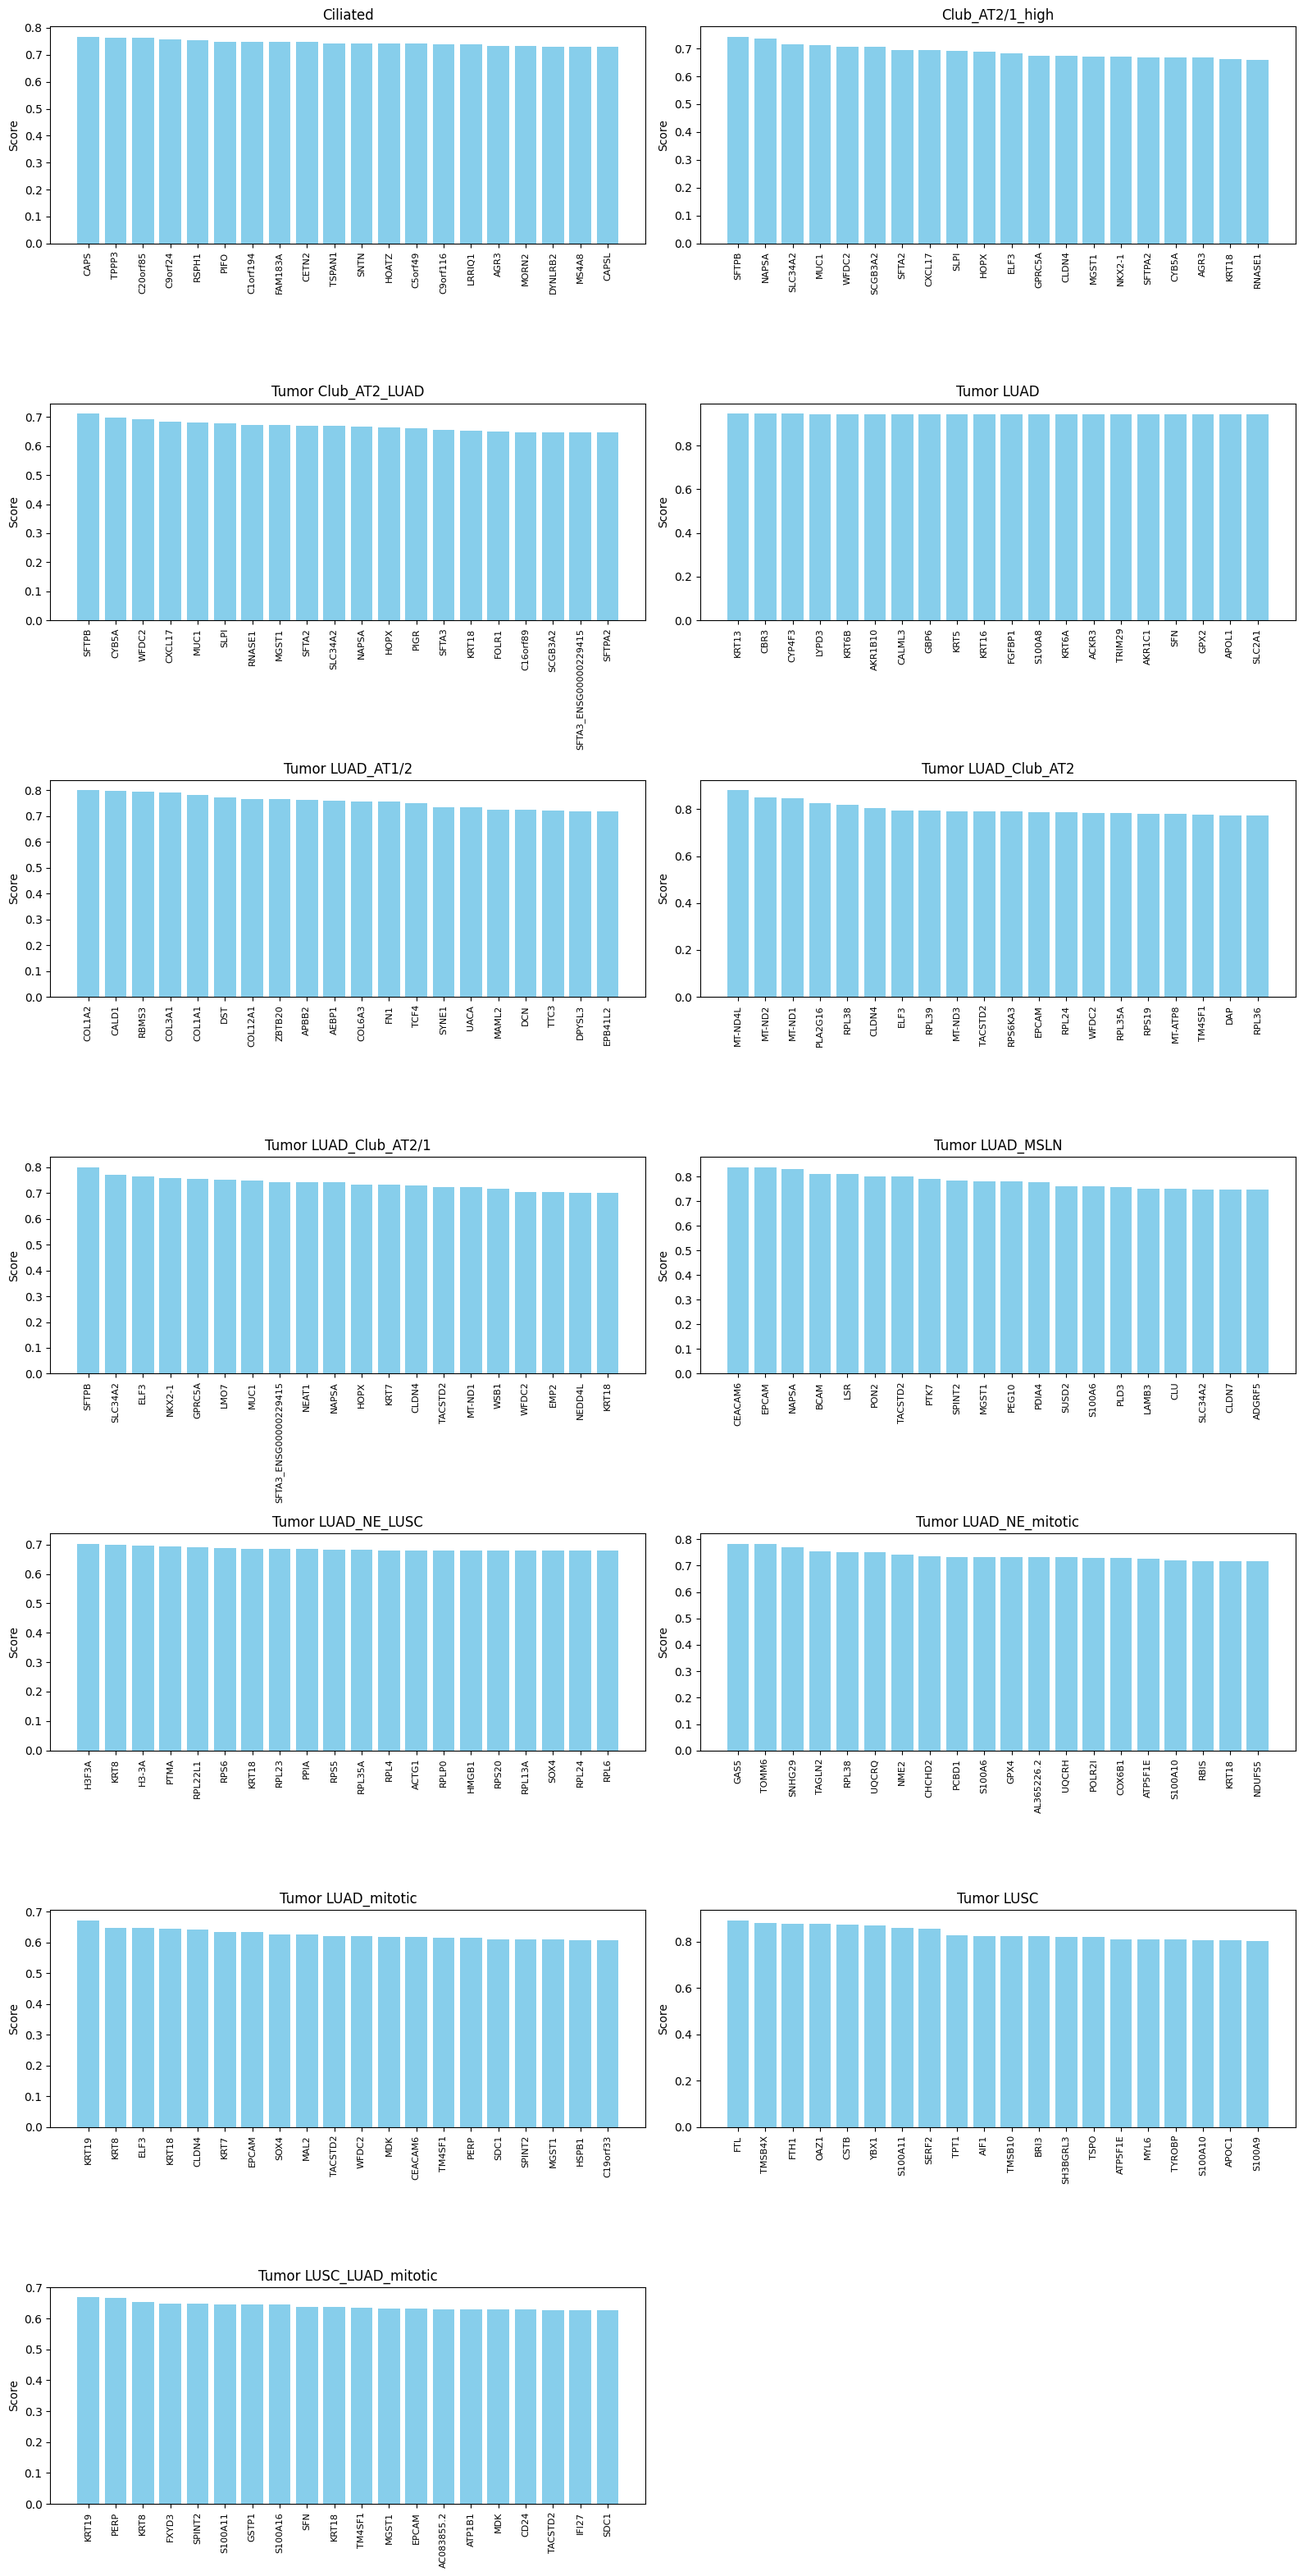
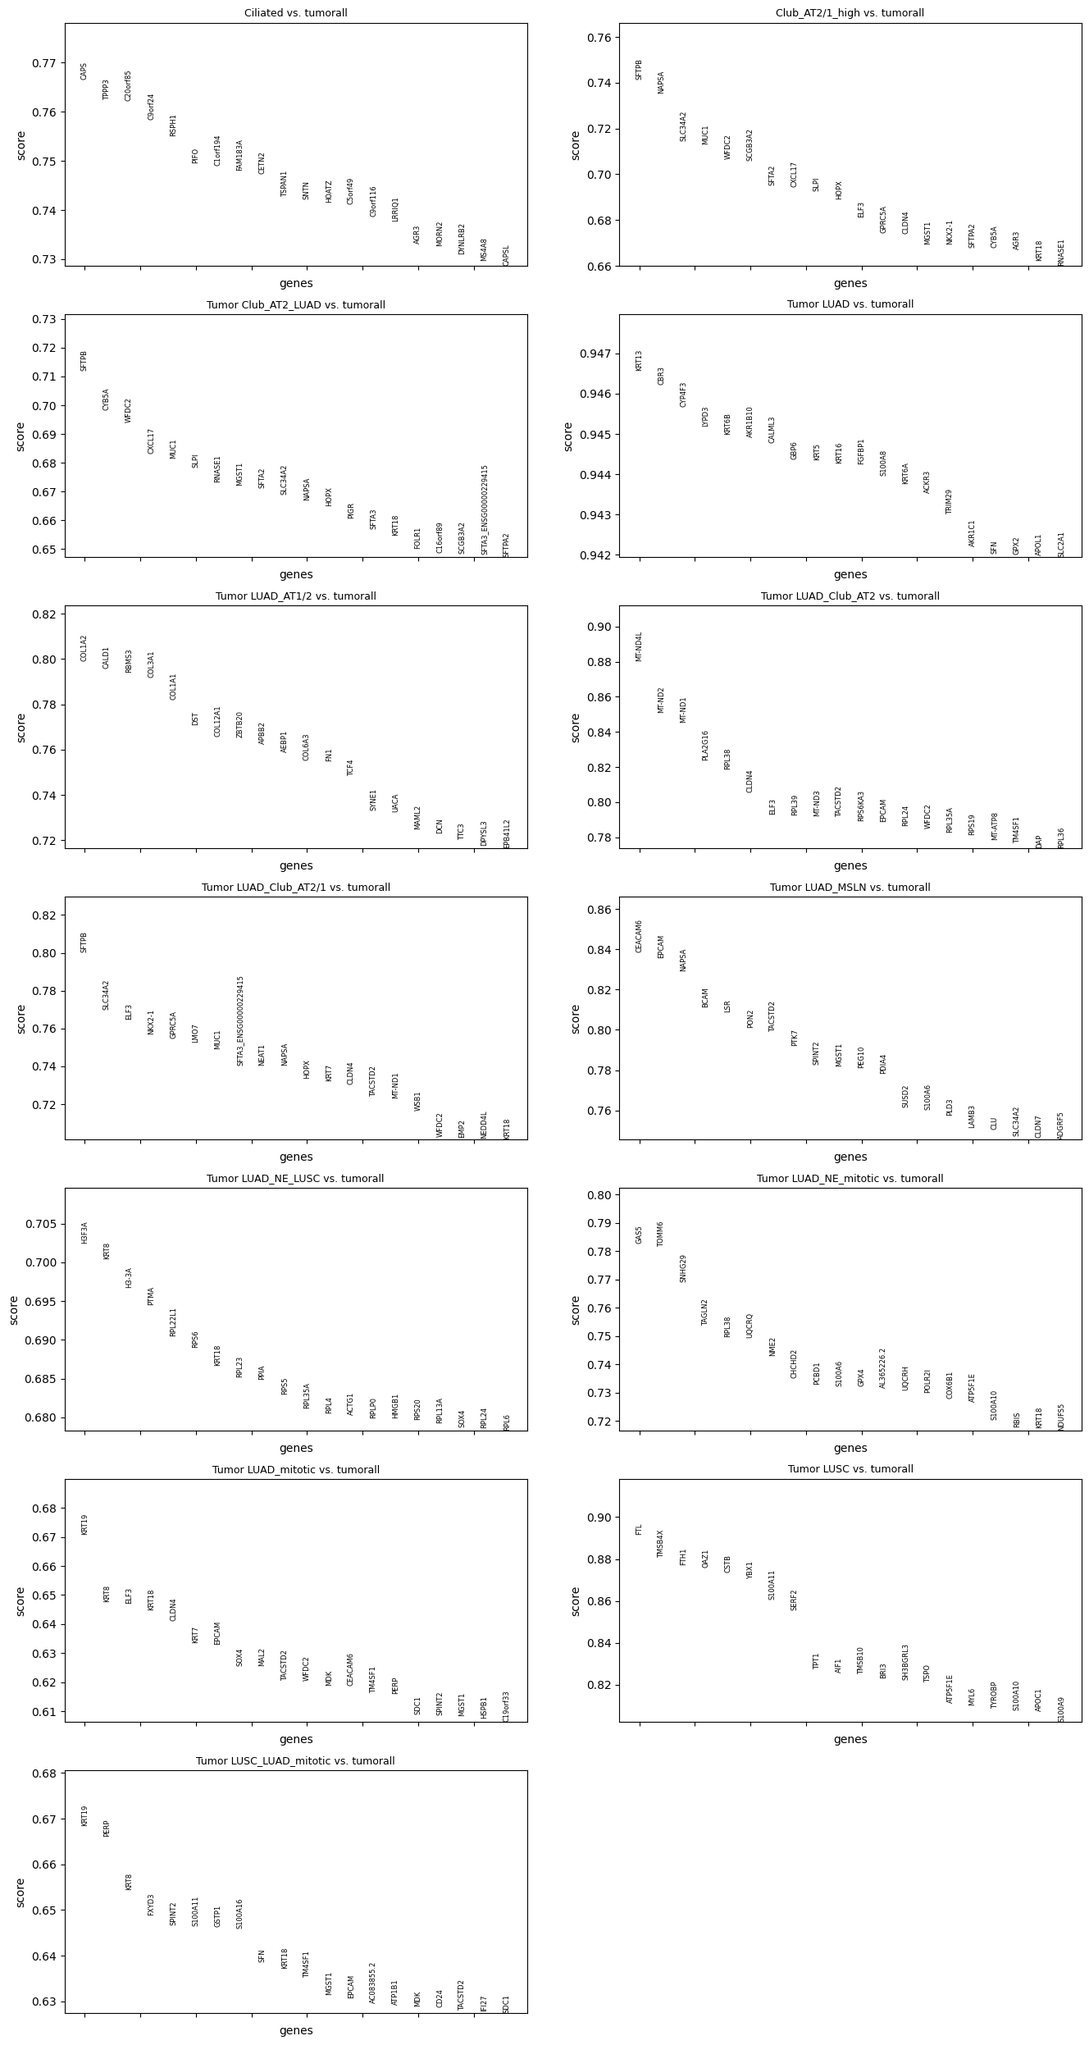
fix marker plots

diff --git a/nb_DE_wilcox/aggregate_markers.py b/nb_DE_wilcox/aggregate_markers.py
@@ -1,7 +1,8 @@
 import os
-from typing import List
+from typing import List, Optional
 import logging
 
+from matplotlib.axes import Axes
 import numpy as np
 import pandas as pd
 
@@ -12,6 +13,107 @@ import gseapy
 
 logging.basicConfig(level=logging.INFO)
 
+
+def rank_genes_group(
+    de_regions: dict,
+    group_name: str,
+    n_genes: int = 20,
+    gene_mapping: Optional[dict] = None,
+    gene_names: Optional[List[str]] = None,
+    fontsize: int = 8,
+    titlesize: int = 10,
+    show: Optional[bool] = None,
+    ax: Optional[Axes] = None,
+    **kwds,
+) -> Axes:
+    """
+    Visualizes the ranking of genes for a specified group from an AnnData object.
+
+    Parameters:
+        de_regions: dict
+            The dictionary containing the dataset and analysis results.
+        group_name: str
+            The name of the group for which to rank genes.
+        n_genes: int, optional
+            The number of top genes to display (default is 20).
+        gene_mapping: Optional[dict], optional
+            A dictionary mapping gene names to other ones
+        gene_names: Optional[List[str]], optional
+            Explicit list of gene names to use for plotting.
+        fontsize: int, optional
+            Font size for gene names (default is 8).
+        titlesize: int, optional
+            Font size for the title (default is 10).
+        show: Optional[bool], optional
+            If True, show the plot immediately.
+        ax: Optional[Axes], optional
+            A matplotlib axes object to plot on. If None, a new figure is created.
+        **kwds:
+            Additional keyword arguments to pass to plotting functions.
+
+    Returns:
+        Axes:
+            The matplotlib axes with the plot.
+
+    Raises:
+        ValueError:
+            If n_genes is less than 1.
+    """
+    if n_genes < 1:
+        raise ValueError(f"n_genes must be positive; received n_genes={n_genes}.")
+
+    reference = str(de_regions['params']['reference'])
+
+    gene_names = gene_names if gene_names is not None else de_regions['names'][group_name][:n_genes]
+    gene_mask = np.isin(de_regions['names'][group_name], gene_names)
+    scores = de_regions['scores'][group_name][gene_mask]
+
+    if gene_mapping:
+        gene_names = [gene_mapping.get(gene, gene) for gene in gene_names]
+
+    ymin = np.min(scores)
+    ymax = np.max(scores)
+    ymax += 0.3 * (ymax - ymin)
+
+    ax = ax if ax is not None else plt.subplot(111)
+    ax.set_ylim(ymin, ymax)
+    ax.set_xlim(-0.9, n_genes - 0.1)
+
+    for ig, gene_name in enumerate(gene_names):
+        ax.text(
+            ig, scores[ig], gene_name,
+            rotation='vertical',
+            verticalalignment='bottom',
+            horizontalalignment='center',
+            fontsize=fontsize
+        )
+
+    ax.set_title(f'{group_name} vs. {reference}', fontsize=titlesize)
+    ax.set_xticklabels([])
+    ax.set_ylabel('score')
+    ax.set_xlabel('genes')
+
+    if show:
+        plt.show()
+
+    return ax
+
+
+def cond_plot(de_regions: dict, cond_types, valid_types, n_genes,
+               ax: Optional[Axes] = None, fontsize=9, titlesize=14,
+                gene_mapping:dict=None, **kwds):
+    if set(cond_types).issubset(valid_types):
+        rank_genes_group(de_regions, cond_types[0], n_genes=n_genes,
+                            ax=ax, sharey=False, show=False,
+                            fontsize=fontsize, titlesize=titlesize, gene_mapping=gene_mapping)
+    else:
+        # pass
+        # Draw an empty plot with a message
+        if ax:
+            ax.text(0.5, 0.5, f'Missing cells: {cond_types}', color='red',
+                        ha='center', va='center', transform=ax.transAxes) 
+            ax.axis('off')
+            
 
 def get_gseas_df(de_regions: dict, valid_types: List[str],
                  types: List[str], id_: str, load_gsea: bool = False,
@@ -188,26 +290,22 @@ def plot_marker_genes(de_region, out_file, n_genes=20):
     cell_types = list(de_region["scores"].dtype.names)
     num_types = len(cell_types)
     
-    fig, axs = plt.subplots((num_types + 1) // 2, 2, figsize=(16, 4.5 * ((num_types + 1) // 2)))
+    fig, axs = plt.subplots(
+        (num_types + 1) // 2, 2, figsize=(16, 4.5 * ((num_types + 1) // 2))
+    )
     axs = axs.ravel()
-    
-    for i, ct in enumerate(cell_types):
-        gene_names = de_region["names"][ct]
-        gene_scores = de_region["scores"][ct]
-        top_genes = gene_names[:n_genes]
-        top_scores = gene_scores[:n_genes]
-        
-        axs[i].bar(range(len(top_scores)), top_scores, color='skyblue')
-        axs[i].set_title(ct)
-        axs[i].set_xticks(range(len(top_scores)))
-        axs[i].set_xticklabels(top_genes, rotation='vertical', fontsize=8)
-        axs[i].set_ylabel('Score')
-    
+    n_genes = 20
+    for i, cell_type in enumerate(cell_types):
+        cond_plot(
+        de_region, [cell_type], cell_types, n_genes=n_genes,
+        ax=axs[i], sharey=False, key="rank_genes_groups_tumorall",
+        show=False, fontsize=6, titlesize=9, gene_mapping=None
+        )
     # Remove any extra axes
-    for j in range(i + 1, len(axs)):
-        fig.delaxes(axs[j])
+    if len(axs) > num_types:
+        for j in range(num_types, len(axs)):
+            fig.delaxes(axs[j])
     
-    plt.tight_layout()
     plt.savefig(out_file, bbox_inches="tight")
     logging.info(f"Marker genes plot saved to {out_file}")
     plt.close()
@@ -257,32 +355,35 @@ if __name__ == "__main__":
     from anndata.experimental import read_elem
 
     wilcox_path = "/root/host_home/luca/nb_DE_wilcox/wilcoxon_DE"
-    time = 'III-IV'
+    time = 'I-II'
+    average_now = False
+    output_average = os.path.join(wilcox_path, f"{time}_averaged_tumorall.npy")
 
-    # Get atlas dsets
-    file_obj = h5py.File('/root/datos/maestria/netopaas/luca/data/atlas/extended_tumor_hvg.h5ad', 'r')
-    obs_matrix = read_elem(file_obj['obs'])
-    dss = list(obs_matrix['dataset'].unique())
-    file_obj.close()
+    if average_now:
+        # Get atlas dsets
+        file_obj = h5py.File('/root/datos/maestria/netopaas/luca/data/atlas/extended_tumor_hvg.h5ad', 'r')
+        obs_matrix = read_elem(file_obj['obs'])
+        dss = list(obs_matrix['dataset'].unique())
+        file_obj.close()
 
-    # List of de_region files from various datasets (adjust these paths as needed)
-    dss.extend(['Trinks_Bishoff_2021_NSCLC', 'Deng_Liu_LUAD_2024', 'Zuani_2024_NSCLC', 'Hu_Zhang_2023_NSCLC'])
-    region_files = [ os.path.join(wilcox_path,
-                     f"{time}_{ds}_tumorall.npy")
-        for ds in dss
-    ]
-    
-    # Compute the averaged de_region object
-    averaged_de_region = average_de_regions(region_files)
-    
-    # Optionally, save the new de_region object
-    output_file = os.path.join(wilcox_path, f"{time}_averaged_tumorall.npy")
-    np.save(output_file, averaged_de_region, allow_pickle=True)
-    logging.info(f"Averaged de_region saved to {output_file}")
+        # List of de_region files from various datasets (adjust these paths as needed)
+        dss.extend(['Trinks_Bishoff_2021_NSCLC', 'Deng_Liu_LUAD_2024', 'Zuani_2024_NSCLC', 'Hu_Zhang_2023_NSCLC'])
+        region_files = [ os.path.join(wilcox_path,
+                        f"{time}_{ds}_tumorall.npy")
+            for ds in dss
+        ]
+        
+        # Compute the averaged de_region object
+        averaged_de_region = average_de_regions(region_files)
+        np.save(output_average, averaged_de_region, allow_pickle=True)
+        logging.info(f"Averaged de_region saved to {output_average}")
+    else:
+        averaged_de_region = np.load(output_average, allow_pickle=True).item()
+        logging.info(f"Averaged de_region loaded from {output_average}")
     
     # Plot marker genes using the new averaged de_region
-    marker_plot_file = os.path.join(os.path.dirname(output_file), f"{time}_averaged_markergenes.png")
+    marker_plot_file = os.path.join(os.path.dirname(output_average), f"{time}_averaged_markergenes.png")
     plot_marker_genes(averaged_de_region, marker_plot_file)
     
     # Plot a GSEA heatmap based on the averaged de_region scores
-    plot_gsea_heatmap(averaged_de_region)
+    # plot_gsea_heatmap(averaged_de_region)
